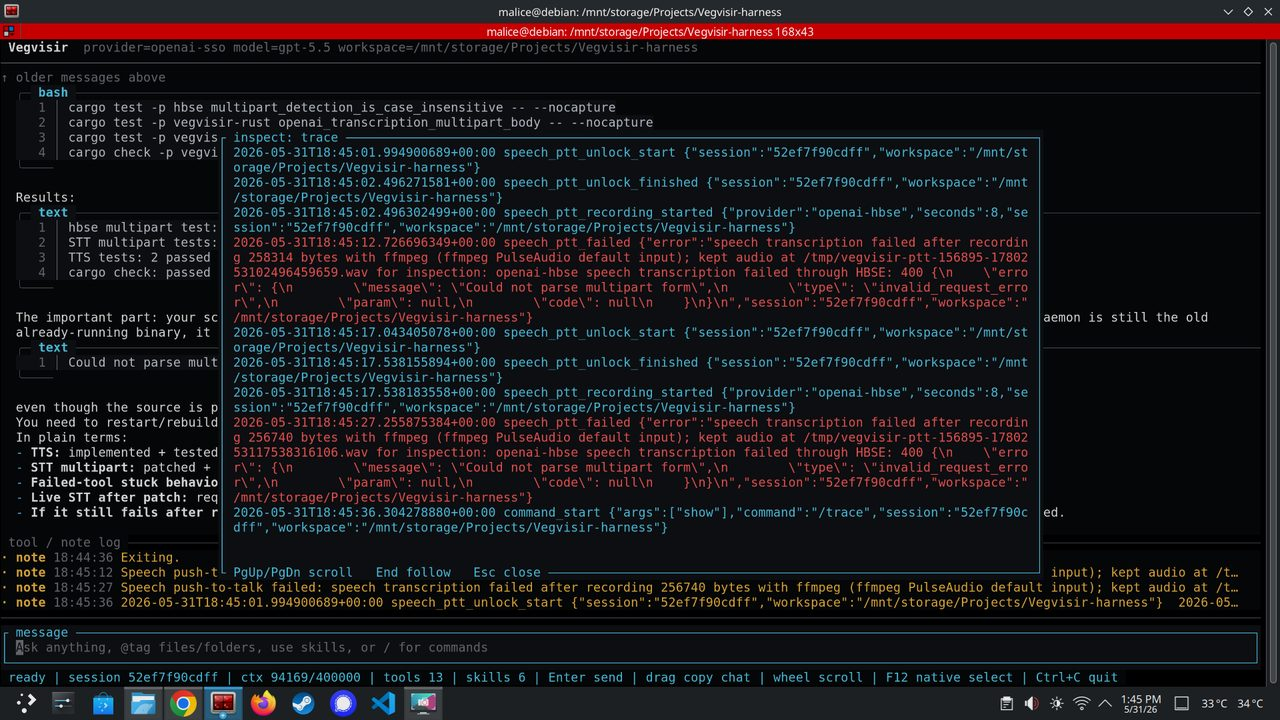
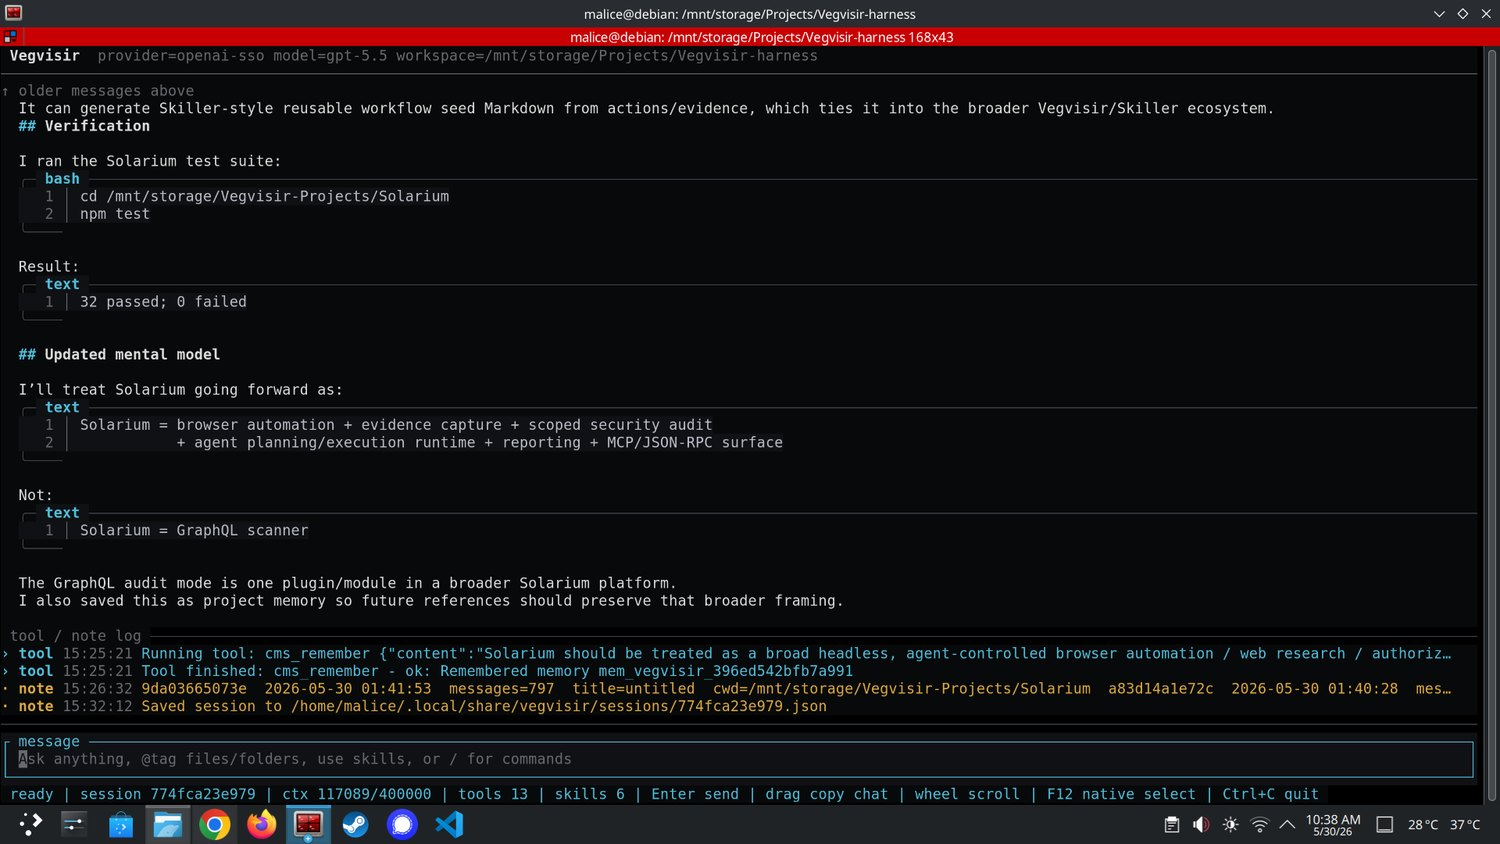
Add approved Vegvisir screenshots

diff --git a/styles.css b/styles.css
@@ -267,6 +267,44 @@ h3 {
   border-top: 1px solid var(--line);
 }
 
+.screenshot-section .section__heading--wide p:last-child {
+  max-width: 760px;
+  margin-bottom: 0;
+  color: var(--muted);
+  font-size: 1.05rem;
+}
+
+.screenshot-gallery {
+  display: grid;
+  grid-template-columns: repeat(2, minmax(0, 1fr));
+  gap: clamp(18px, 3vw, 28px);
+}
+
+.screenshot-frame {
+  margin: 0;
+  overflow: hidden;
+  border: 1px solid rgba(125, 211, 252, 0.24);
+  background:
+    linear-gradient(145deg, rgba(125, 211, 252, 0.055), rgba(167, 139, 250, 0.04)),
+    rgba(7, 11, 18, 0.82);
+  box-shadow: 0 22px 90px rgba(0, 0, 0, 0.28);
+}
+
+.screenshot-frame--wide { grid-column: 1 / -1; }
+
+.screenshot-frame img {
+  display: block;
+  width: 100%;
+  border-bottom: 1px solid rgba(125, 211, 252, 0.18);
+}
+
+.screenshot-frame figcaption {
+  padding: 18px 20px 20px;
+  color: var(--muted);
+  font-size: 0.98rem;
+  line-height: 1.6;
+}
+
 .feature-grid {
   display: grid;
   grid-template-columns: repeat(3, minmax(0, 1fr));
@@ -404,7 +442,8 @@ h3 {
 
 @media (max-width: 920px) {
   .feature-grid,
-  .feature-strip { grid-template-columns: 1fr; }
+  .feature-strip,
+  .screenshot-gallery { grid-template-columns: 1fr; }
 
   .feature-item { min-height: auto; }
 

diff --git a/index.html b/index.html
@@ -26,6 +26,7 @@
         </a>
         <div class="nav__links">
           <a href="#what">What it is</a>
+          <a href="#screenshots">Screenshots</a>
           <a href="#runtime">Runtime</a>
           <a href="#memory">Memory</a>
           <a href="#subagents">Subagents</a>
@@ -60,6 +61,33 @@
           <p>
             The harness is designed around the loop that matters: orient from evidence, plan the next move, execute with tools, verify the result, and report what changed. It is built for repository maintenance, feature work, debugging, documentation, operations, migrations, and security-aware review.
           </p>
+        </div>
+      </section>
+
+      <section id="screenshots" class="section screenshot-section" aria-labelledby="screenshots-title">
+        <div class="section__heading section__heading--wide">
+          <p class="eyebrow">Screenshots</p>
+          <h2 id="screenshots-title">Vegvisir in the middle of actual work.</h2>
+          <p>
+            These are not mockups. They show the terminal UI running real sessions: long-context project work, command palette navigation, tool activity, saved session logs, and the transcript as the operational record.
+          </p>
+        </div>
+
+        <div class="screenshot-gallery" aria-label="Vegvisir product screenshots">
+          <figure class="screenshot-frame screenshot-frame--wide">
+            <img src="assets/screenshots/vegvisir-preview-1.jpg" alt="Vegvisir terminal session showing verification notes, tool logs, and saved session state" loading="lazy" />
+            <figcaption>Verification and memory in one view: test results, project notes, tool calls, and session state stay visible instead of disappearing after the answer.</figcaption>
+          </figure>
+
+          <figure class="screenshot-frame">
+            <img src="assets/screenshots/vegvisir-preview-2.jpg" alt="Vegvisir command palette showing agent, approvals, attach, auth, branch, and context commands" loading="lazy" />
+            <figcaption>The command palette turns the harness into a control surface for agents, approvals, auth, context preparation, diffs, and workspace actions.</figcaption>
+          </figure>
+
+          <figure class="screenshot-frame">
+            <img src="assets/screenshots/vegvisir-preview-3.jpg" alt="Vegvisir session showing an agent response, tool activity, saved notes, and message composer" loading="lazy" />
+            <figcaption>The transcript is the workbench: user intent, agent reasoning summaries, tool output, notes, and the next message all live in the same operational flow.</figcaption>
+          </figure>
         </div>
       </section>
 
@@ -158,7 +186,7 @@ report  clean tree, deployed change tracked</code></pre>
             <span>03</span>
             <div>
               <h3>Transcript visibility</h3>
-              <p>Subagent updates are mirrored into the parent transcript, including captured output, so delegated work does not vanish into a side channel. No missing little gremlin footprints.</p>
+              <p>Subagent updates are mirrored into the parent transcript, including captured output, so delegated work does not vanish into a side channel. No missing phantom footprints.</p>
             </div>
           </li>
         </ol>